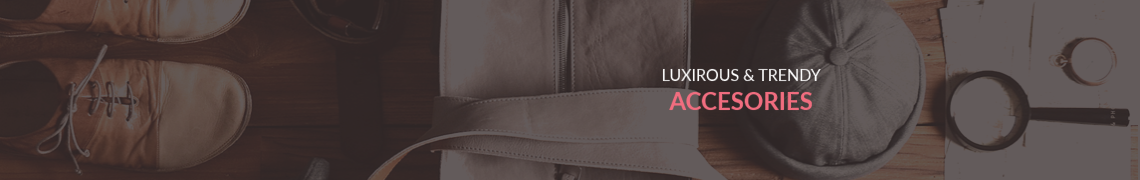
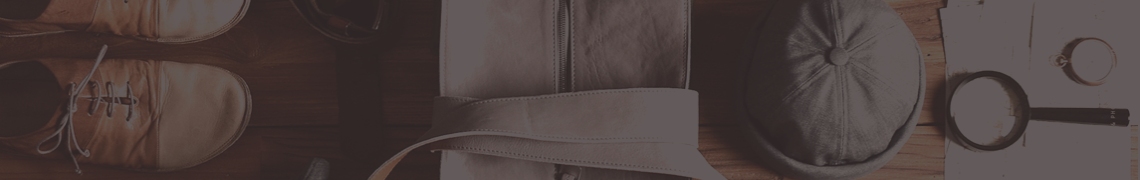
Working with the layout. home Work 6+7: error work

Changed region(s): [[0.5833, 0.5, 0.7368, 0.6111], [0.5833, 0.3611, 0.7368, 0.4722]]

diff --git a/hw6/index.html b/hw6/index.html
@@ -8,7 +8,7 @@
 	</head>
 	<body>
 		<header class="header container">
-			<nav class="  header_btn">
+			<nav class="header_btn">
 				<div class="btn_pos cont1">
 					<button class="btn">
 						<a href="#"> <img src="./img/Logo.svg" alt="Logo" /></a>
@@ -25,26 +25,63 @@
 			</nav>
 		</header>
 		<main class="container">
-			<section class="pos_section1 ">
+			<section class="pos_section1">
 				<img src="./img/Parka.png" alt="Main poster" class="parka" />
 
 				<div class="div_txt"><img src="./img/Text.png" alt="Text" class="text" /></div>
 			</section>
 
 			<section class="pos_section2">
-					<img src="./img/For_women.png" alt="For women" class="png1"/>
-					<img src="./img/For_men.jpeg" alt="For men" class="png1"/>
-					<img src="./img/For_kids.png" alt="For kids" class="png1"/>
-					<img src="./img/Accesories.png" alt="Accesories" class="down_img"/>
+				<article class="items">
+					<div class="item">
+						<img src="./img/For_women.png" alt="" />
+					</div>
+					<div class="item">
+						<h3>30% OFF</h3>
+						<h2>FOR WOMEN</h2>
+					</div>
+				</article>
 
-				</section>
+				<article class="items">
+					<div class="item">
+						<img src="./img/For_men.png" alt="" />
+					</div>
+					<div class="item">
+						<h3>HOT DEAL</h3>
+						<h2>FOR MEN</h2>
+					</div>
+				</article>
+				<article class="items">
+					<div class="item">
+						<img src="./img/For_kids.png" alt="" />
+					</div>
+					<div class="item">
+						<h3>NEW ARRIVALS</h3>
+						<h2>FOR KIDS</h2>
+					</div>
+				</article>
+				<article class="items">
+					<div class="item">
+						<img src="./img/Accesories.png" alt="Accesories" />
+					</div>
+					<div class="item">
+						<h3>LUXIROUS & TRENDY</h3>
+						<h2>ACCESORIES</h2>
+					</div>
+				</article>
+
+				<!-- <img src="./img/For_women.png" alt="For women" class="png1"/> -->
+				<!-- <img src="./img/For_men.png" alt="For men" class="png1"/> -->
+				<!-- <img src="./img/For_kids.png" alt="For kids" class="png1"/> -->
+				<!-- <img src="./img/Accesories.png" alt="Accesories" class="down_img" /> -->
+			</section>
 			<div>
 				<h3 class="categoryH3">Fetured Items</h3>
 				<p class="categoryP">Shop for items based on what we featured in this week</p>
 			</div>
 			<section class="section3">
 				<article class="pos_section3">
-					<div class="div_section3 png2">
+					<div class="div_section3">
 						<img src="./img/1.jpeg" alt="Photo" />
 						<h3>ELLERY X M'O CAPSULE</h3>
 						<p class="textS3">
@@ -53,7 +90,7 @@
 						</p>
 						<p class="price">$52.00</p>
 					</div>
-					<div class="div_section3 png2">
+					<div class="div_section3">
 						<img src="./img/2.png" alt="Photo" />
 						<h3>ELLERY X M'O CAPSULE</h3>
 						<p class="textS3">
@@ -62,7 +99,7 @@
 						</p>
 						<p class="price">$52.00</p>
 					</div>
-					<div class="div_section3 png2">
+					<div class="div_section3">
 						<img src="./img/3.png" alt="Photo" />
 						<h3>ELLERY X M'O CAPSULE</h3>
 						<p class="textS3">
@@ -71,7 +108,7 @@
 						</p>
 						<p class="price">$52.00</p>
 					</div>
-					<div class="div_section3 png2">
+					<div class="div_section3">
 						<img src="./img/4.png" alt="Photo" />
 						<h3>ELLERY X M'O CAPSULE</h3>
 						<p class="textS3">
@@ -80,7 +117,7 @@
 						</p>
 						<p class="price">$52.00</p>
 					</div>
-					<div class="div_section3 png2">
+					<div class="div_section3">
 						<img src="./img/5.png" alt="Photo" />
 						<h3>ELLERY X M'O CAPSULE</h3>
 						<p class="textS3">
@@ -89,7 +126,7 @@
 						</p>
 						<p class="price">$52.00</p>
 					</div>
-					<div class="div_section3 png2">
+					<div class="div_section3 png5">
 						<img src="./img/6.png" alt="Photo" />
 						<h3>ELLERY X M'O CAPSULE</h3>
 						<p class="textS3">

diff --git a/hw6/style.css b/hw6/style.css
@@ -102,19 +102,72 @@ img {
 
 .pos_section2 {
 	display: flex;
-	row-gap: 30px;
+	gap: 30px;
 	max-width: 1140px;
 	flex-wrap: wrap;
-	padding: 65px 8px 96px;
+	padding: 65px 0 96px;
 	margin: auto auto;
-	justify-content: space-between;
+	/* justify-content: space-between; */
 }
 
-.png1 {
-	width: 31%;
+/* .png1 { */
+/* width: 31%; */
+
+/* background-image: url("./img/For_women.png"); */
+/* background-repeat: no-repeat; */
+/* background-size: contain; */
+/* display: flex; */
+/* text-align: center; */
+/* background-position: center; */
+/* } */
+
+.items {
+	display: inline-block;
+	position: relative;
+	/* margin: 20px; */
 }
 
-.png2 {
+.item:nth-of-type(2) {
+	position: absolute;
+	top: 50%;
+	left: 50%;
+	transform: translate(-50%, -50%);
+	/* display: flex; */
+	/* justify-content: center; */
+	/* text-align: center; */
+}
+/* .item{
+	gap: 2px;
+} */
+.item > h3 {
+	margin-bottom: 2px;
+	font-family: Lato;
+	font-size: 16px;
+	font-weight: 400;
+	/* line-height: 2px; */
+	/* letter-spacing: 0%; */
+	text-align: center;
+	color: rgb(255, 255, 255);
+	/* margin: auto auto; */
+}
+.item h2 {
+	font-family: Lato;
+	font-size: 24px;
+	font-weight: 700;
+	color: rgb(241, 109, 127);
+}
+
+.item_text {
+	min-width: 154px;
+	min-height: 50px;
+	display: flex;
+	justify-content: center;
+	align-items: center;
+	flex-wrap: wrap;
+	flex-direction: column;
+}
+
+.png5 {
 	width: 31%;
 }
 
@@ -153,12 +206,12 @@ img {
 .pos_section3 {
 	max-width: 1140px;
 	display: flex;
-	flex-direction: row;
+	/* flex-direction: row; */
 	flex-wrap: wrap;
-	justify-content: space-between;
-	row-gap: 30px;
+	/* justify-content: space-between; */
+	gap: 30px;
 	margin: 0 auto;
-	padding: 0 8px;
+	/* padding: 0 8px; */
 }
 
 .div_section3 {
@@ -211,7 +264,6 @@ img {
 		max-width: 768px;
 	}
 
-
 	.header_btn {
 		max-width: 734px;
 	}
@@ -219,7 +271,6 @@ img {
 	.btn_pos {
 		margin: 18px 0;
 	}
-
 
 	.pos_section2 {
 		row-gap: 20px;
